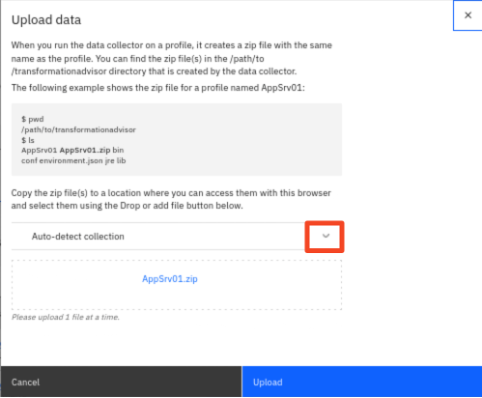
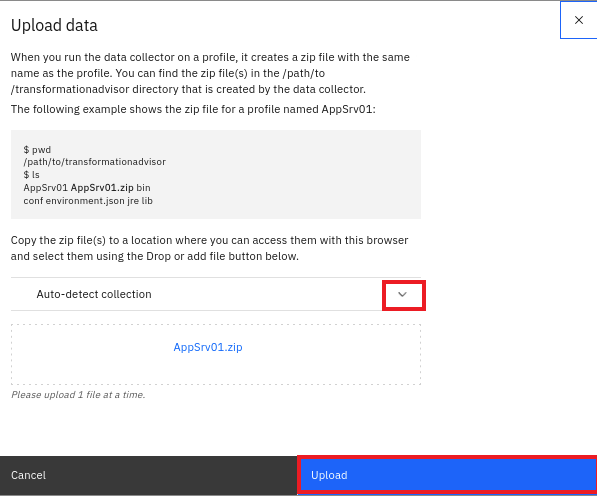
Updated

diff --git a/README.md b/README.md
@@ -699,12 +699,7 @@ The WebSphere Application Server environment configuration is also available on 
 
     <kbd>![](./images/media/image57.png)</kbd>
 
-    d. Click **`Upload`**.
-
-    <kbd>![](./images/media/image57-b.png)</kbd>
-
-
-    e. Click the drop-down menu for “**Auto-detect collection**”
+    d. Click the drop-down menu for “**Auto-detect collection**”
 
     This option lets you choose how the new collection will be named as it’s uploaded to TA.
 
@@ -716,7 +711,7 @@ The WebSphere Application Server environment configuration is also available on 
 
     ![](./images/media/image58.png)
 
-    f.  In this case, just accept the default selection “**Auto-detect collection name from archive**”. Then click **`Upload`** to upload the data.
+    e.  In this case, just accept the default selection “**Auto-detect collection name from archive**”. Then click **`Upload`** to upload the data.
 
     ![](./images/media/image59.png)
  
